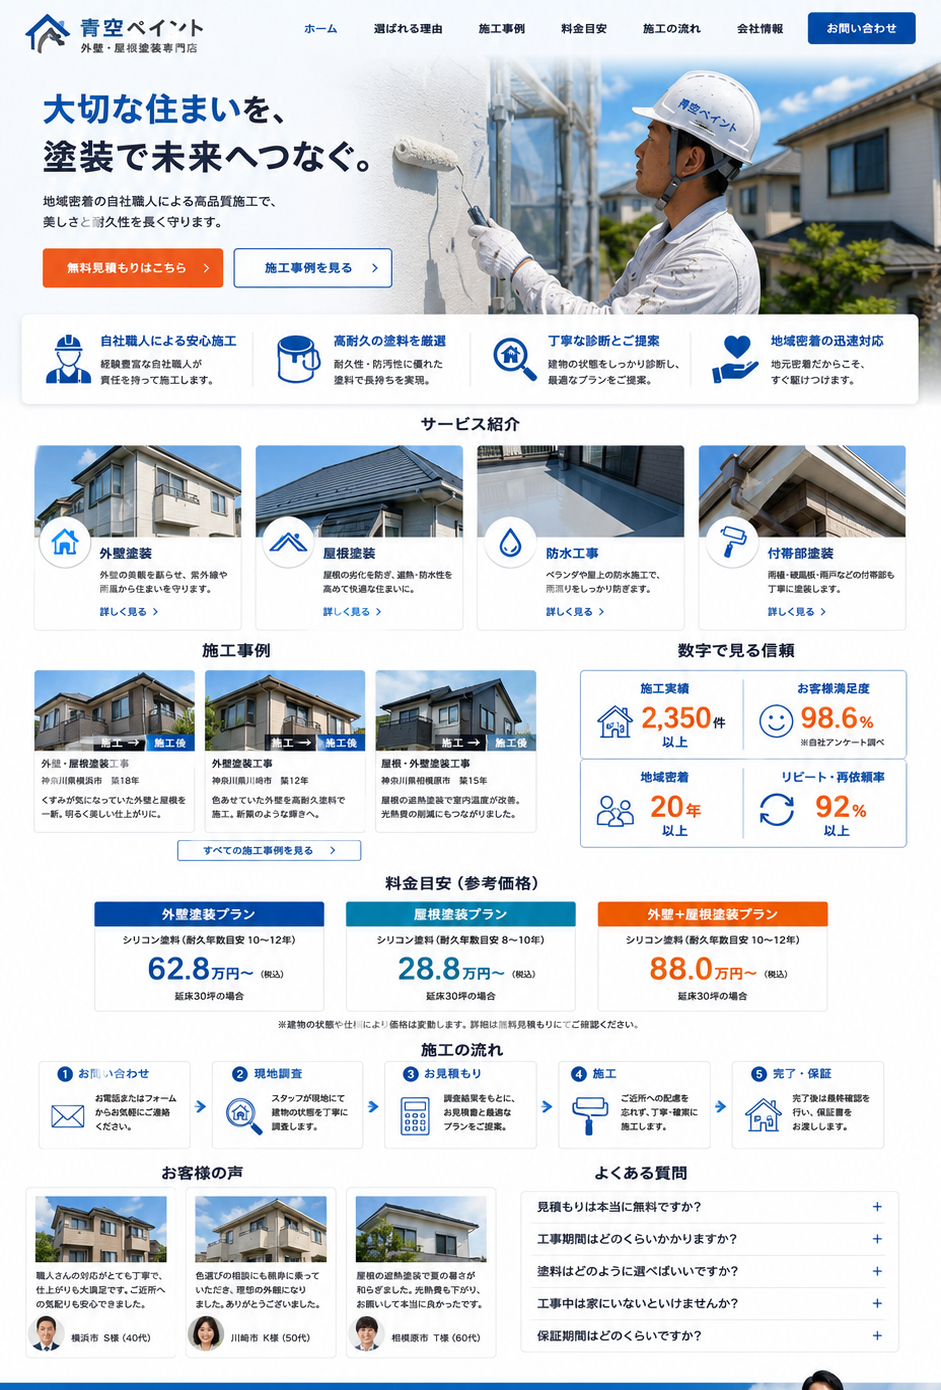
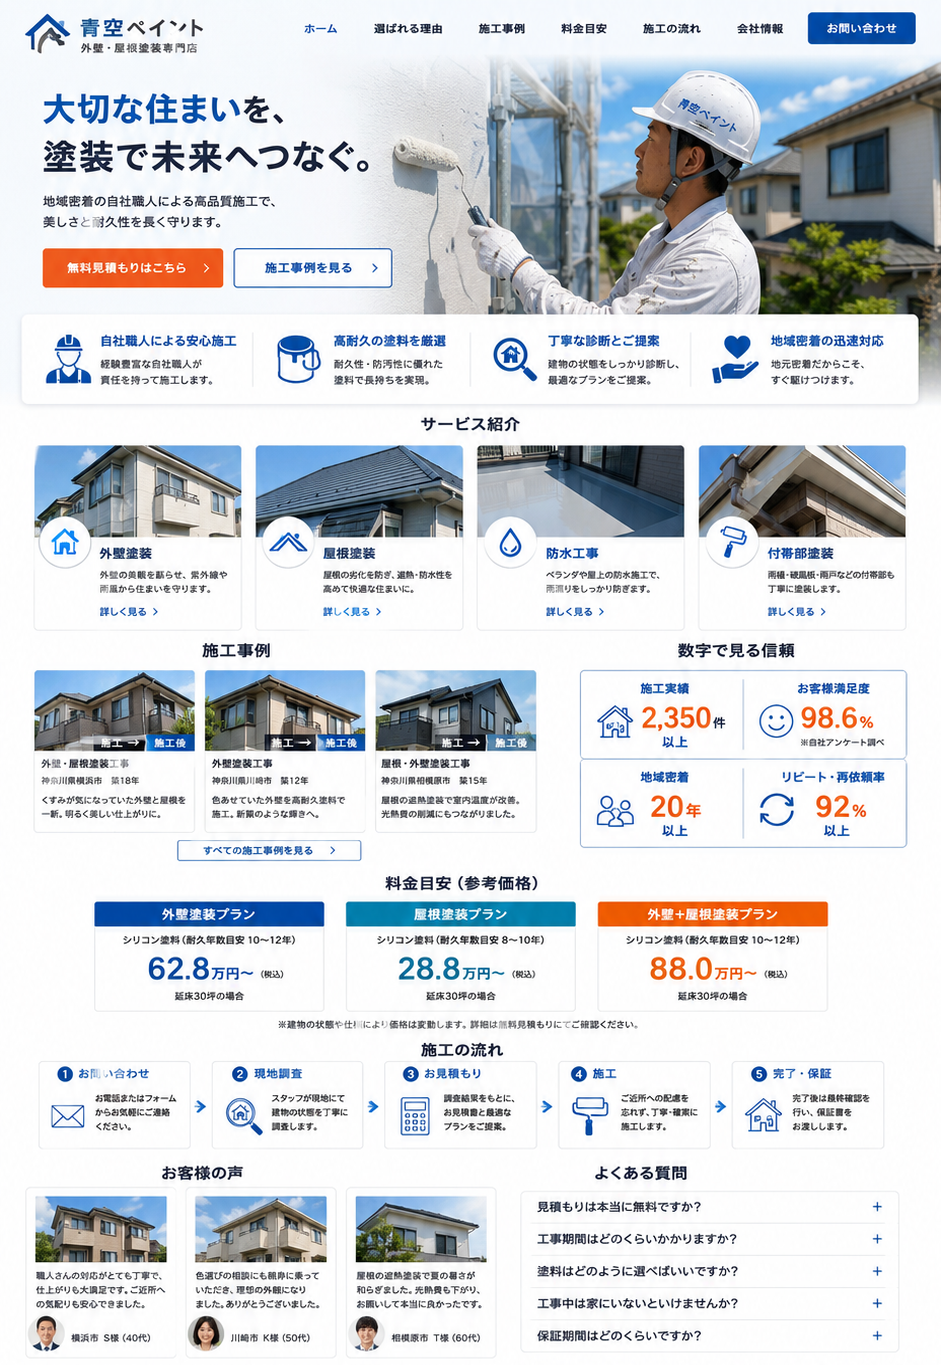
aozora: fix crop seam (remove peeking person), placeholderize, button lift
- Re-crop image to y1365 so the CTA-band worker/face no longer peeks at the seam
- Brand -> 〇〇ペイント, phone -> 0120-00-0000, address/FAX -> placeholders
- Hotspot/anchor % recomputed for the new image height
- Buttons: clear hover (raised highlight + ring) and pressed state; real CTA
  buttons lift on hover and depress on click

Claude-Session: https://claude.ai/code/session_011gZGRRf9aVNWiCM348FY9d

diff --git a/mocks/aozora/index.html b/mocks/aozora/index.html
@@ -3,7 +3,7 @@
 <head>
 <meta charset="UTF-8" />
 <meta name="viewport" content="width=device-width, initial-scale=1.0" />
-<title>青空ペイント｜外壁・屋根塗装専門店</title>
+<title>〇〇ペイント｜外壁・屋根塗装専門店</title>
 <meta name="description" content="地域密着の自社職人による高品質な外壁・屋根塗装。無料見積もり受付中。" />
 <!--
   ハイブリッド構成：
@@ -21,8 +21,9 @@
   .map{position:relative;}
   .map>img{width:100%;display:block;}
   .anchor{position:absolute;left:0;width:1px;height:1px;}
-  .hot{position:absolute;display:block;border-radius:8px;transition:background .15s;}
-  .hot:hover{background:rgba(0,130,255,.14);}
+  .hot{position:absolute;display:block;border-radius:8px;cursor:pointer;transition:.18s;}
+  .hot:hover{background:rgba(255,255,255,.16);box-shadow:inset 0 0 0 2px rgba(31,95,208,.8),0 16px 28px -10px rgba(31,95,208,.7);}
+  .hot:active{background:rgba(31,95,208,.16);box-shadow:inset 0 0 0 2px rgba(31,95,208,.85),0 4px 10px -6px rgba(31,95,208,.6);}
   body.show-hot .hot{background:rgba(0,130,255,.22);outline:1px solid rgba(0,80,190,.6);}
 
   /* ===== CTA帯（本物HTML） ===== */
@@ -38,10 +39,12 @@
   .cta-hours{font-size:.76rem;opacity:.92;margin-top:6px;}
   .cta-btns{display:flex;flex-direction:column;gap:11px;flex:none;}
   .btn-orange,.btn-white{font-weight:700;padding:14px 26px;border-radius:9px;text-align:center;white-space:nowrap;transition:.2s;font-size:.92rem;}
-  .btn-orange{background:#f5821f;color:#fff;box-shadow:0 10px 20px -8px rgba(245,130,31,.9);}
-  .btn-orange:hover{background:#e2731a;transform:translateY(-1px);}
-  .btn-white{background:#fff;color:#1c54a6;}
-  .btn-white:hover{background:#eef3fb;}
+  .btn-orange{background:#f5821f;color:#fff;box-shadow:0 8px 18px -8px rgba(245,130,31,.9);}
+  .btn-orange:hover{background:#e2731a;transform:translateY(-3px);box-shadow:0 16px 26px -10px rgba(245,130,31,.95);}
+  .btn-orange:active{transform:translateY(-1px);box-shadow:0 5px 12px -6px rgba(245,130,31,.9);}
+  .btn-white{background:#fff;color:#1c54a6;box-shadow:0 8px 18px -10px rgba(0,0,0,.3);}
+  .btn-white:hover{background:#eef3fb;transform:translateY(-3px);box-shadow:0 16px 26px -10px rgba(0,0,0,.28);}
+  .btn-white:active{transform:translateY(-1px);}
 
   /* ===== フッター（本物HTML） ===== */
   .foot{background:#1b2c47;color:#c7d2e2;}
@@ -77,13 +80,13 @@
 
     <!-- ===== 上部：画像＋クリック領域 ===== -->
     <div class="map">
-      <img src="hp-top.png" alt="青空ペイント｜外壁・屋根塗装専門店" />
+      <img src="hp-top.png" alt="〇〇ペイント｜外壁・屋根塗装専門店" />
 
-      <!-- スクロール先アンカー（高さ1390基準） -->
-      <span class="anchor" id="reasons" style="top:22.2%"></span>
-      <span class="anchor" id="works"   style="top:46.2%"></span>
-      <span class="anchor" id="price"   style="top:63.4%"></span>
-      <span class="anchor" id="flow"    style="top:74.4%"></span>
+      <!-- スクロール先アンカー（画像高さ1365基準） -->
+      <span class="anchor" id="reasons" style="top:22.6%"></span>
+      <span class="anchor" id="works"   style="top:47.0%"></span>
+      <span class="anchor" id="price"   style="top:64.6%"></span>
+      <span class="anchor" id="flow"    style="top:75.8%"></span>
 
       <!-- ナビ -->
       <a class="hot" href="#top"     style="left:32.4%;top:1.3%;width:5.3%;height:2.6%" aria-label="ホーム"></a>
@@ -95,17 +98,17 @@
       <a class="hot" href="#contact" style="left:92.2%;top:1.2%;width:5.8%;height:3.0%" aria-label="お問い合わせ"></a>
 
       <!-- ヒーローのボタン -->
-      <a class="hot" href="#contact" style="left:4.3%;top:17.8%;width:20.0%;height:3.2%" aria-label="無料見積もりはこちら"></a>
-      <a class="hot" href="#works"   style="left:26.3%;top:17.8%;width:15.5%;height:3.2%" aria-label="施工事例を見る"></a>
+      <a class="hot" href="#contact" style="left:4.3%;top:18.2%;width:20.0%;height:3.2%" aria-label="無料見積もりはこちら"></a>
+      <a class="hot" href="#works"   style="left:26.3%;top:18.2%;width:15.5%;height:3.2%" aria-label="施工事例を見る"></a>
 
       <!-- サービス「詳しく見る」 -->
-      <a class="hot" href="#contact" style="left:7.4%;top:43.4%;width:8.5%;height:1.8%" aria-label="外壁塗装 詳しく見る"></a>
-      <a class="hot" href="#contact" style="left:30.6%;top:43.4%;width:8.5%;height:1.8%" aria-label="屋根塗装 詳しく見る"></a>
-      <a class="hot" href="#contact" style="left:54.0%;top:43.4%;width:8.5%;height:1.8%" aria-label="防水工事 詳しく見る"></a>
-      <a class="hot" href="#contact" style="left:77.0%;top:43.4%;width:8.5%;height:1.8%" aria-label="付帯部塗装 詳しく見る"></a>
+      <a class="hot" href="#contact" style="left:7.4%;top:44.2%;width:8.5%;height:1.8%" aria-label="外壁塗装 詳しく見る"></a>
+      <a class="hot" href="#contact" style="left:30.6%;top:44.2%;width:8.5%;height:1.8%" aria-label="屋根塗装 詳しく見る"></a>
+      <a class="hot" href="#contact" style="left:54.0%;top:44.2%;width:8.5%;height:1.8%" aria-label="防水工事 詳しく見る"></a>
+      <a class="hot" href="#contact" style="left:77.0%;top:44.2%;width:8.5%;height:1.8%" aria-label="付帯部塗装 詳しく見る"></a>
 
       <!-- すべての施工事例を見る -->
-      <a class="hot" href="#works" style="left:15.9%;top:61.0%;width:25.3%;height:1.9%" aria-label="すべての施工事例を見る"></a>
+      <a class="hot" href="#works" style="left:15.9%;top:62.1%;width:25.3%;height:1.9%" aria-label="すべての施工事例を見る"></a>
     </div>
 
     <!-- ===== CTA帯（本物HTML・電話タップ可） ===== -->
@@ -115,9 +118,9 @@
         <div class="cta-main">
           <h2>まずはお気軽にご相談ください！</h2>
           <p class="sub">お住まいの診断・お見積もりは無料です。しつこい営業は一切いたしません。</p>
-          <a class="cta-tel" href="tel:0120118724">
+          <a class="cta-tel" href="tel:0120000000">
             <svg viewBox="0 0 24 24" fill="none" stroke="currentColor" stroke-width="1.7"><path d="M5 3h3l2 5-2.5 1.5a12 12 0 0 0 6 6L17 13l5 2v3a2 2 0 0 1-2 2A16 16 0 0 1 4 5a2 2 0 0 1 1-2z"/></svg>
-            0120-11-8724
+            0120-00-0000
           </a>
           <p class="cta-hours">受付時間 8:00〜19:00（年中無休）</p>
         </div>
@@ -132,12 +135,12 @@
     <footer class="foot" id="company">
       <div class="foot-inner">
         <div class="foot-brand">
-          <div class="foot-logo">青空ペイント <small>外壁・屋根塗装専門店</small></div>
+          <div class="foot-logo">〇〇ペイント <small>外壁・屋根塗装専門店</small></div>
           <p>地域密着20年以上の実績。自社職人による高品質施工で、大切な住まいを守ります。</p>
           <div class="info">
-            株式会社 青空ペイント<br>
-            〒222-0033　神奈川県横浜市港北区新横浜1-1-1 新横浜ビル 3F<br>
-            TEL. <a href="tel:0120118724">0120-11-8724</a>　FAX. 045-000-0001
+            株式会社 〇〇ペイント<br>
+            〒000-0000　〇〇県〇〇市〇〇<br>
+            TEL. <a href="tel:0120000000">0120-00-0000</a>　FAX. 000-000-0000
           </div>
         </div>
         <div class="foot-col">
@@ -160,7 +163,7 @@
           </div>
         </div>
       </div>
-      <div class="foot-bottom">© 2025 青空ペイント All Rights Reserved.</div>
+      <div class="foot-bottom">© 2025 〇〇ペイント All Rights Reserved.</div>
     </footer>
 
   </div>